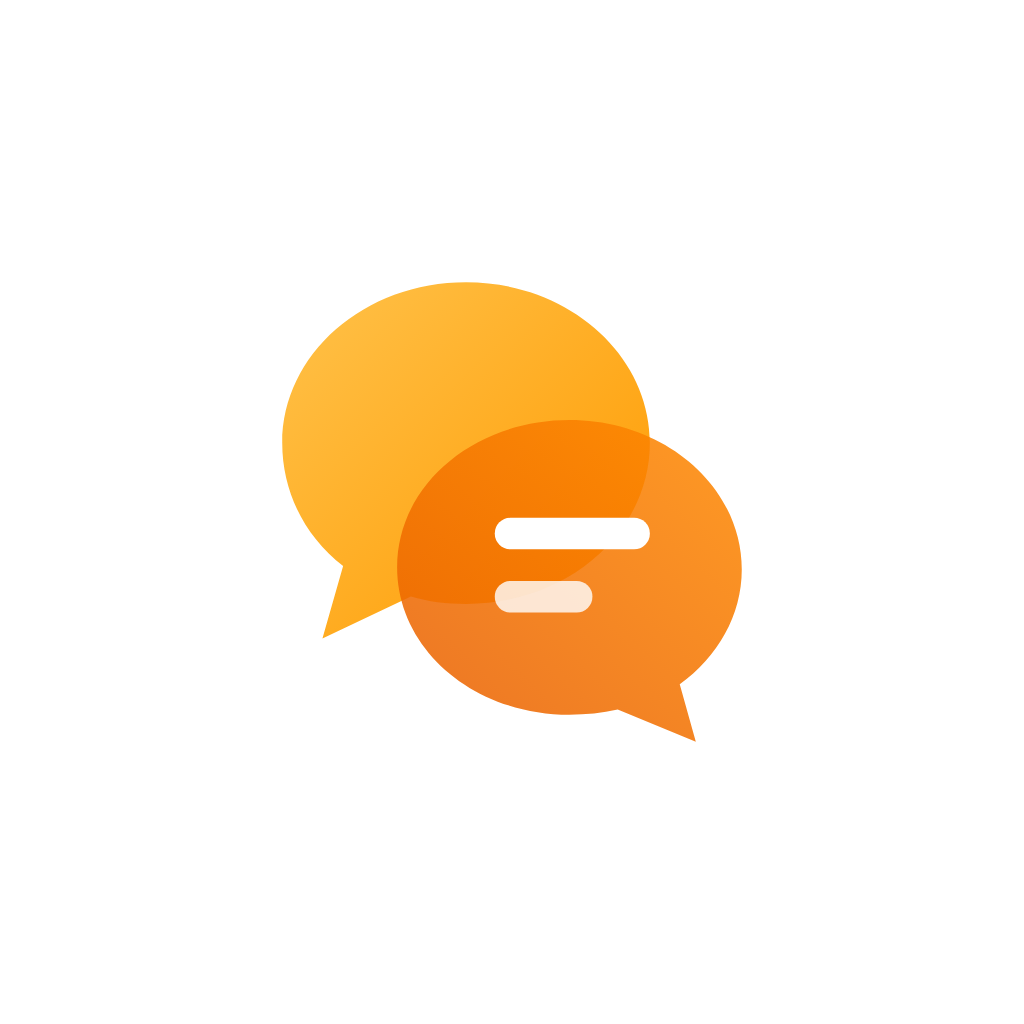
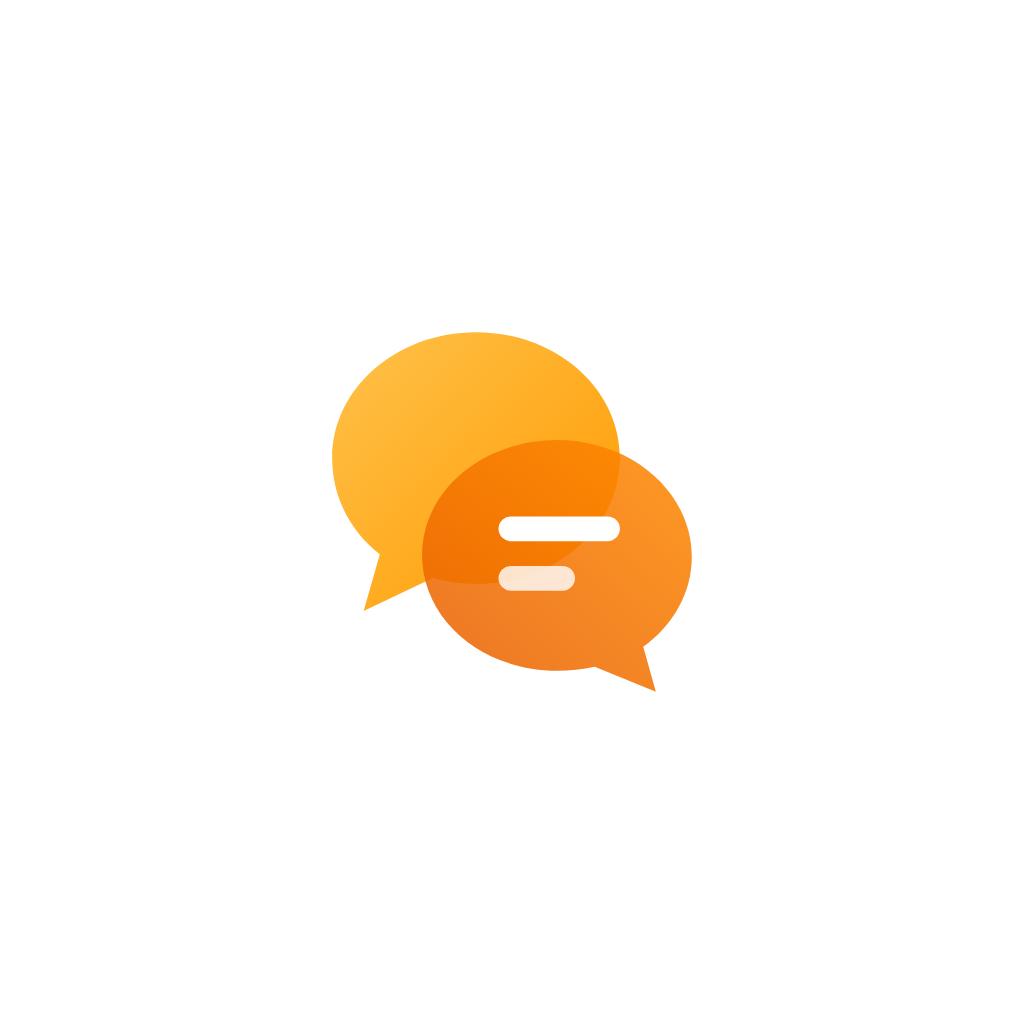
이름을 소보루 CX로 바꾸기 + 안드로이드 아이콘 말풍선 작게(여백 넉넉히) (#439)
Claude-Session: https://claude.ai/code/session_01SGfBdtXmX7h9qt8XW4iLQw

Changed region(s): [[0.25, 0.25, 0.75, 0.7188]]

diff --git a/platform_app/templates/b_billing.html b/platform_app/templates/b_billing.html
@@ -30,7 +30,7 @@ document.querySelectorAll('[data-once]').forEach(function(btn){btn.onclick=funct
 {% if bl and bl.status=='trial' %}<span class="pill ok">무료 체험 중</span>{% elif bl and bl.status=='active' %}<span class="pill ok">결제 중</span>{% elif bl and bl.status=='canceled' %}<span class="pill gray">해지 예약</span>{% elif bl and bl.status=='past_due' %}<span class="pill bad">결제 실패</span>{% elif bl and bl.status=='stopped' %}<span class="pill bad">결제 멈춤</span>{% else %}<span class="pill gray">무료 시범</span>{% endif %}
 </div>
 <h1>요금·결제</h1></div></div>
-{% if locked %}<div class="warn" style="margin-bottom:16px"><span><b>{{ '카드를 등록하면 바로 시작할 수 있어요' if not bl or not bl.started else '결제가 확인되지 않아 소보루 CS 기능이 멈췄어요' }}</b><small>{{ ('카드를 등록하면 %d일 동안 모든 기능을 무료로 써요. 등록할 때는 결제되지 않아요.'%trial_days()) if not bl or not bl.started else '받은 문의와 설정은 그대로 있어요. 결제하면 바로 다시 쓸 수 있어요.' }}</small></span></div>{% endif %}
+{% if locked %}<div class="warn" style="margin-bottom:16px"><span><b>{{ '카드를 등록하면 바로 시작할 수 있어요' if not bl or not bl.started else '결제가 확인되지 않아 소보루 CX 기능이 멈췄어요' }}</b><small>{{ ('카드를 등록하면 %d일 동안 모든 기능을 무료로 써요. 등록할 때는 결제되지 않아요.'%trial_days()) if not bl or not bl.started else '받은 문의와 설정은 그대로 있어요. 결제하면 바로 다시 쓸 수 있어요.' }}</small></span></div>{% endif %}
 <div class="cols">
 <div class="stack">
 <section class="panel"><div class="ph">이번 기간 상담<span class="pill {{ 'bad' if use.over else 'ok' }}" style="margin-left:auto">{{ use.tier.name }}</span></div>
@@ -76,7 +76,7 @@ document.querySelectorAll('[data-once]').forEach(function(btn){btn.onclick=funct
 {% if c24 or (bl and bl.source=='cafe24') %}<li>카페24 쇼핑몰을 연결하셨으면 카페24 앱 결제로 결제해요. 처음 연결한 날부터 {{ trial_days() or 5 }}일은 무료이고, 첫 달은 카페24 결제 화면에서 결제하고, 그다음부터 카페24가 매달 결제해요.</li>
 <li>해지와 결제 내역은 카페24 관리자의 앱 관리에서 볼 수 있어요.</li>
 {% else %}<li>처음 카드를 등록하면 {{ trial_days() or 5 }}일 무료 체험이 시작되고, 체험이 끝나는 날 첫 달 요금이 결제돼요. 그다음부터 매달 같은 날 자동으로 결제돼요.</li>
-<li>결제가 되지 않으면 결제할 때까지 소보루 CS 기능이 멈춰요. 받은 문의와 설정은 그대로 남아요.</li>
+<li>결제가 되지 않으면 결제할 때까지 소보루 CX 기능이 멈춰요. 받은 문의와 설정은 그대로 남아요.</li>
 <li>해지하면 다음 결제일까지 그대로 쓰고, 그날부터 결제하지 않아요.</li>
 <li>결제가 안 되면 메일로 알려 드리고 다음 날 다시 시도해요 (3번까지). 결제될 때까지 기능은 멈춰요.</li>
 <li>결제는 포트원과 결제대행사(PG)가 처리해요. 카드 번호는 소보루에 저장되지 않아요.</li>{% endif %}

diff --git a/platform_app/templates/base.html b/platform_app/templates/base.html
@@ -30,7 +30,7 @@
 {% block main %}<main class="pg"><div class="{% block width %}wrap{% endblock %}">{% block body %}{% endblock %}</div></main>{% endblock %}
 {% import '_op.html' as op with context %}
 {% block foot %}{% set ffold=site!='me' and (co or is_ops) and request.endpoint!='pay.page' %}<footer class="foot2{{ ' ffold' if ffold }}">{% if ffold %}<details class="ftd"><summary>회사 정보</summary>{% endif %}<div class="wrap">
-<div class="ft-top">{% if site=='me' %}<span class="logo cs-logo"><img class="ch" src="{{ url_for('static',filename='soboru-char.png') }}?v=3" alt="" width="125" height="96"><b class="wm">소보루 CS</b></span>{% else %}<span class="logo biz">{{ blogo.soboru_logo() }}</span>{% endif %}<nav class="ft-links">{% if site=='me' %}<a href="{{ url_for('guide') }}">이용 안내</a><a class="strong" href="{{ url_for('privacy') }}">개인정보 처리방침</a><a href="{{ biz_url }}">기업 회원</a>{% else %}{% if has_ep('cms.blog') %}<a href="{{ url_for('cms.blog') }}">자료실</a><a href="{{ url_for('cms.stories') }}">고객 사례</a><a href="{{ url_for('cms.help_home') }}">도움말</a>{% endif %}{% if has_ep('gr.apply') %}<a href="{{ url_for('gr.apply') }}">파트너</a>{% endif %}{% if has_ep('sec.page') %}<a href="{{ url_for('sec.page') }}">보안</a>{% endif %}<a href="{{ url_for('pricing') }}">요금 안내</a><a href="{{ url_for('terms') }}">이용약관</a><a href="{{ url_for('refund_policy') }}">환불 정책</a><a class="strong" href="{{ site_url('me','/privacy') }}">개인정보 처리방침</a>{% endif %}</nav></div>
+<div class="ft-top">{% if site=='me' %}<span class="logo cs-logo"><img class="ch" src="{{ url_for('static',filename='soboru-char.png') }}?v=3" alt="" width="125" height="96"><b class="wm">소보루 CX</b></span>{% else %}<span class="logo biz">{{ blogo.soboru_logo() }}</span>{% endif %}<nav class="ft-links">{% if site=='me' %}<a href="{{ url_for('guide') }}">이용 안내</a><a class="strong" href="{{ url_for('privacy') }}">개인정보 처리방침</a><a href="{{ biz_url }}">기업 회원</a>{% else %}{% if has_ep('cms.blog') %}<a href="{{ url_for('cms.blog') }}">자료실</a><a href="{{ url_for('cms.stories') }}">고객 사례</a><a href="{{ url_for('cms.help_home') }}">도움말</a>{% endif %}{% if has_ep('gr.apply') %}<a href="{{ url_for('gr.apply') }}">파트너</a>{% endif %}{% if has_ep('sec.page') %}<a href="{{ url_for('sec.page') }}">보안</a>{% endif %}<a href="{{ url_for('pricing') }}">요금 안내</a><a href="{{ url_for('terms') }}">이용약관</a><a href="{{ url_for('refund_policy') }}">환불 정책</a><a class="strong" href="{{ site_url('me','/privacy') }}">개인정보 처리방침</a>{% endif %}</nav></div>
 {{ op.opinfo() }}
 <p class="copy">© 2026 SOBORU. All rights reserved.</p>{% if site!='me' %}<p class="tfnote">이 서비스에는 토스(비바리퍼블리카)가 제공한 Tossface가 적용되어 있습니다 · <a href="https://toss.im/tossface/copyright" target="_blank" rel="noopener">저작권 안내</a></p>{% endif %}</div>{% if ffold %}</details>{% endif %}</footer>{% endblock %}
 {% block script %}{% endblock %}

diff --git a/platform_app/templates/b_cafe24.html b/platform_app/templates/b_cafe24.html
@@ -27,11 +27,11 @@
 <form method="post"><input type="hidden" name="csrf" value="{{ csrf_token() }}"><button class="btn sm gray" name="act" value="boards" {{ 'disabled' if lk.status!='ok' }}>게시판 바꾸기</button></form>{% endif %}</section>{% endif %}
 <form class="panel stack" method="post"><input type="hidden" name="csrf" value="{{ csrf_token() }}"><input type="hidden" name="act" value="connect">
 <div class="ph">{{ '다시 연결하기' if lk else '연결하기' }}</div>
-{% if launch %}<div class="hint ok"><span>카페24에서 소보루 CS 앱을 열었어요. 쇼핑몰 아이디 <b>{{ launch }}</b>로 연결을 이어서 할게요.</span></div>{% endif %}
+{% if launch %}<div class="hint ok"><span>카페24에서 소보루 CX 앱을 열었어요. 쇼핑몰 아이디 <b>{{ launch }}</b>로 연결을 이어서 할게요.</span></div>{% endif %}
 <label class="fld"><span>카페24 쇼핑몰 아이디</span><input class="inp" name="mall_id" maxlength="40" value="{{ launch or (lk.mall_id if lk else '') }}" placeholder="예: myshop (myshop.cafe24.com의 앞부분)" required {{ 'disabled' if not ready }}></label>
 <p class="cap" style="margin:0">누르면 카페24 화면으로 넘어가요. 카페24 관리자로 로그인하고 권한에 동의하면 이 화면으로 돌아와요. 소보루는 카페24 비밀번호를 받지 않아요.</p>
 <button class="btn md" {{ 'disabled' if not ready or ((not trust or not trust.ok) and not launch) }}>카페24로 이동해 연결</button>
-{% if ready and trust and not trust.ok %}<p class="cap" style="margin:0">{{ '카페24에서 권한에 동의하면 회사 인증도 함께 끝나요.' if launch else '회사 인증이 끝나면 연결할 수 있어요. 카페24 관리자에서 소보루 CS 앱을 열면 바로 연결할 수 있어요.' }}</p>{% endif %}</form>
+{% if ready and trust and not trust.ok %}<p class="cap" style="margin:0">{{ '카페24에서 권한에 동의하면 회사 인증도 함께 끝나요.' if launch else '회사 인증이 끝나면 연결할 수 있어요. 카페24 관리자에서 소보루 CX 앱을 열면 바로 연결할 수 있어요.' }}</p>{% endif %}</form>
 </div>
 <aside class="stack"><section class="panel"><div class="ph">가져오는 것</div>
 <ul class="dots"><li><b>쇼핑몰 정보 읽기</b>: 연결이 맞는지 확인해요.</li><li><b>주문</b>: 주문·배송 화면에 '자사몰'로 들어와요. 주문번호가 같으면 상태와 송장만 고쳐요.</li>

diff --git a/platform_app/templates/o_visual.html b/platform_app/templates/o_visual.html
@@ -7,7 +7,7 @@
 <div class="phead"><div><h1>화면 보며 고치기</h1><p>실제 화면에서 문장을 끌어 옮기고, 두 번 눌러 글자를 고쳐요. 손을 떼는 순간 바로 저장돼요.</p></div></div>
 <form class="vz-ctl" method="get">
 <label class="vz-pick"><span>화면</span><select class="inp" name="p" onchange="this.form.submit()">
-{% for grp,cond in [('고객센터',('me',0)),('소보루 CS · 로그인 전',('biz',0)),('소보루 CS · 사장님 화면',('biz',1))] %}<optgroup label="{{ grp }}">{% for site,path,name,login in pages %}{% if (site,login)==cond %}<option value="{{ loop.index0 }}" {{ 'selected' if loop.index0==p }}>{{ name }}</option>{% endif %}{% endfor %}</optgroup>{% endfor %}
+{% for grp,cond in [('고객센터',('me',0)),('소보루 CX · 로그인 전',('biz',0)),('소보루 CX · 사장님 화면',('biz',1))] %}<optgroup label="{{ grp }}">{% for site,path,name,login in pages %}{% if (site,login)==cond %}<option value="{{ loop.index0 }}" {{ 'selected' if loop.index0==p }}>{{ name }}</option>{% endif %}{% endfor %}</optgroup>{% endfor %}
 </select></label>
 {% if (pg[3] or pg[1]=='/to/') and cos %}<label class="vz-pick"><span>기업</span><select class="inp" name="co" onchange="this.form.submit()">{% for c in cos %}<option value="{{ c.id }}" {{ 'selected' if c.id|string==co_id }}>{{ c.name }}</option>{% endfor %}</select></label>{% endif %}
 <div class="seg vz-dev" role="group" aria-label="기기">{% for k,v in [('pc','PC'),('m','모바일')] %}<button class="{{ 'on' if dev==k }}" name="dev" value="{{ k }}">{{ v }}</button>{% endfor %}</div>

diff --git a/mobile/src/app/howto.tsx b/mobile/src/app/howto.tsx
@@ -1,4 +1,4 @@
-// 소보루 CS 이용 안내: 홈페이지(cs.soboru.co.kr/guide)의 이용 안내를 앱 안에서. 사장님이 쓰는 순서를 먼저 보여 준다.
+// 소보루 CX 이용 안내: 홈페이지(cs.soboru.co.kr/guide)의 이용 안내를 앱 안에서. 사장님이 쓰는 순서를 먼저 보여 준다.
 import * as WebBrowser from 'expo-web-browser';
 import { useState } from 'react';
 import { Pressable, StyleSheet, Text, View } from 'react-native';
@@ -62,7 +62,7 @@ export default function HowTo() {
         <View style={{ gap: 14 }}>
           <View style={st.box}>
             <Text style={st.t}>입점 기업</Text>
-            <Text style={st.s}>소보루 CS를 쓰는 기업이에요. 담당자 화면으로 바로 전달되고, 배송 조회처럼 정해진 유형은 접수 즉시 처리되기도 해요.</Text>
+            <Text style={st.s}>소보루 CX를 쓰는 기업이에요. 담당자 화면으로 바로 전달되고, 배송 조회처럼 정해진 유형은 접수 즉시 처리되기도 해요.</Text>
           </View>
           <View style={st.box}>
             <Text style={st.t}>비입점 기업</Text>

diff --git a/platform_app/templates/b_shop.html b/platform_app/templates/b_shop.html
@@ -35,7 +35,7 @@
 <section class="panel"><div class="ph">키 발급 방법</div>
 {% if shop=='naver' %}<ol class="steps">
 <li><a class="link" href="https://apicenter.commerce.naver.com" target="_blank" rel="noopener">커머스API센터</a>에 스마트스토어 통합매니저 계정으로 로그인해요.</li>
-<li><b>애플리케이션 등록</b>을 누르고, 연결할 스토어를 고른 뒤 이름(예: 소보루 CS)을 적어요.</li>
+<li><b>애플리케이션 등록</b>을 누르고, 연결할 스토어를 고른 뒤 이름(예: 소보루 CX)을 적어요.</li>
 <li>API 호출 IP에 아래 <b>소보루 서버 IP</b>를 넣어요.</li>
 <li>API 그룹에서 <b>주문</b>과 <b>문의</b>를 추가하고 등록해요.</li>
 <li>내 스토어 애플리케이션에서 <b>애플리케이션 ID</b>와 <b>시크릿</b>을 복사해 이 화면의 키 칸에 넣어요.</li>

diff --git a/platform_app/templates/_c.html b/platform_app/templates/_c.html
@@ -2,7 +2,7 @@
 {% import '_i.html' as i %}
 {% macro bar(tab='') -%}
 <header class="gnb"><div class="wrap">
-<a class="logo cs-logo" href="{{ url_for('company_page',company_id=CS.id) if CS else url_for('home') }}"><img class="ch" src="{{ url_for('static',filename='soboru-char.png') }}?v=3" alt="" width="125" height="96"><b class="wm">소보루 CS</b></a>
+<a class="logo cs-logo" href="{{ url_for('company_page',company_id=CS.id) if CS else url_for('home') }}"><img class="ch" src="{{ url_for('static',filename='soboru-char.png') }}?v=3" alt="" width="125" height="96"><b class="wm">소보루 CX</b></a>
 <nav>
 <a href="{{ url_for('mine') }}" class="{{ 'on' if tab=='mine' }}">내 접수{% if n_mine %}<span class="cnt">{{ n_mine }}</span>{% endif %}</a>
 <a href="{{ url_for('guide') }}" class="{{ 'on' if tab=='guide' }}">이용 안내</a>

diff --git a/platform_app/tools/tour_video.js b/platform_app/tools/tour_video.js
@@ -137,7 +137,7 @@ h1 em{font-style:normal;color:#ef920e}
 .price{margin-top:32px;display:inline-flex;gap:12px;align-items:center;background:#fff6e8;color:#b8660a;border-radius:999px;padding:14px 28px;font-size:24px;font-weight:700;animation-delay:.75s!important}
 .price i{width:6px;height:6px;border-radius:50%;background:#ef920e}
 @keyframes in{from{opacity:0;transform:translateY(16px)}to{opacity:1;transform:none}}
-</style></head><body><div class="w"><img src="${CHAR}" alt=""><div class="brand">소보루 CS</div>
+</style></head><body><div class="w"><img src="${CHAR}" alt=""><div class="brand">소보루 CX</div>
 <h1>쇼핑몰 문의, <em>AI가 먼저</em> 답해요</h1><div class="price">월 ${START_PRICE}원부터<i></i>${TRIAL_DAYS}일 무료 체험</div></div></body></html>`;
 
 (async()=>{

diff --git a/platform_app/templates/b_intro.html b/platform_app/templates/b_intro.html
@@ -60,7 +60,7 @@
 </div>
 </div></section>
 
-<section class="tp-sec tp-say" aria-label="소보루 CS가 하는 일"><div class="wrap"><p class="tp-words" id="tpWords">{% for w in '반복되는 문의는 AI가 먼저 답하고, 사장님은 정말 중요한 결정만 내리면 돼요.'.split(' ') %}<span>{{ w }}</span> {% endfor %}</p></div></section>
+<section class="tp-sec tp-say" aria-label="소보루 CX가 하는 일"><div class="wrap"><p class="tp-words" id="tpWords">{% for w in '반복되는 문의는 AI가 먼저 답하고, 사장님은 정말 중요한 결정만 내리면 돼요.'.split(' ') %}<span>{{ w }}</span> {% endfor %}</p></div></section>
 
 <section class="tp-sec" id="tour"><div class="wrap">
 <h2 class="rv-up">1분 영상으로<br>둘러보세요</h2>

diff --git a/platform_app/templates/c_company.html b/platform_app/templates/c_company.html
@@ -4,7 +4,7 @@
 {% block bar %}{% endblock %}
 {% block main %}
 <main class="cs cs3">
-<header class="cs-top"><div class="cs-in"><span class="cs-brand"><img class="ch" src="{{ url_for('static',filename='soboru-char.png') }}?v=3" alt="" width="125" height="96"><b class="wm">소보루 CS</b></span>
+<header class="cs-top"><div class="cs-in"><span class="cs-brand"><img class="ch" src="{{ url_for('static',filename='soboru-char.png') }}?v=3" alt="" width="125" height="96"><b class="wm">소보루 CX</b></span>
 <a href="{{ url_for('mine') }}" class="cs-mine">내 접수{% if n_mine %}<span class="cnt">{{ n_mine }}</span>{% endif %}</a></div></header>
 <div class="cs3-top"><div class="cs-in">
 <section class="cs-hero">

diff --git a/mobile/src/app/signup.tsx b/mobile/src/app/signup.tsx
@@ -48,7 +48,7 @@ export default function Signup() {
     <KeyboardAvoidingView style={{ flex: 1 }} behavior={Platform.OS === 'ios' ? 'padding' : undefined}>
       <ScrollView contentContainerStyle={{ paddingBottom: 40 }} keyboardShouldPersistTaps="handled">
         <View style={{ paddingHorizontal: 24, paddingTop: 8, paddingBottom: 18, gap: 8 }}>
-          <Text style={st.h1}>소보루 CS 가입 신청</Text>
+          <Text style={st.h1}>소보루 CX 가입 신청</Text>
           <Text style={st.p}>신청하면 운영팀이 사업자 정보를 확인하고 승인해요. 요금과 무료 체험은 웹 관리 화면에서 확인할 수 있어요.</Text>
         </View>
         <Card style={{ gap: 14 }}>

diff --git a/platform_app/templates/o_copy.html b/platform_app/templates/o_copy.html
@@ -3,7 +3,7 @@
 {% block bar %}{{ b.obar(otab,n_signup) }}{% endblock %}
 {% block body %}
 <div class="narrow cp">
-<div class="phead"><div><h1>문구 고치기</h1><p>고객센터와 소보루 CS 화면의 글자를 찾아서 바로 고칠 수 있어요. 저장하면 바로 반영돼요.</p></div></div>
+<div class="phead"><div><h1>문구 고치기</h1><p>고객센터와 소보루 CX 화면의 글자를 찾아서 바로 고칠 수 있어요. 저장하면 바로 반영돼요.</p></div></div>
 
 <form class="cp-search" method="get" role="search"><input type="hidden" name="pg" value="{{ pg }}">
 <svg viewBox="0 0 24 24" aria-hidden="true"><circle cx="11" cy="11" r="7"/><path d="m20 20-3.5-3.5"/></svg>
